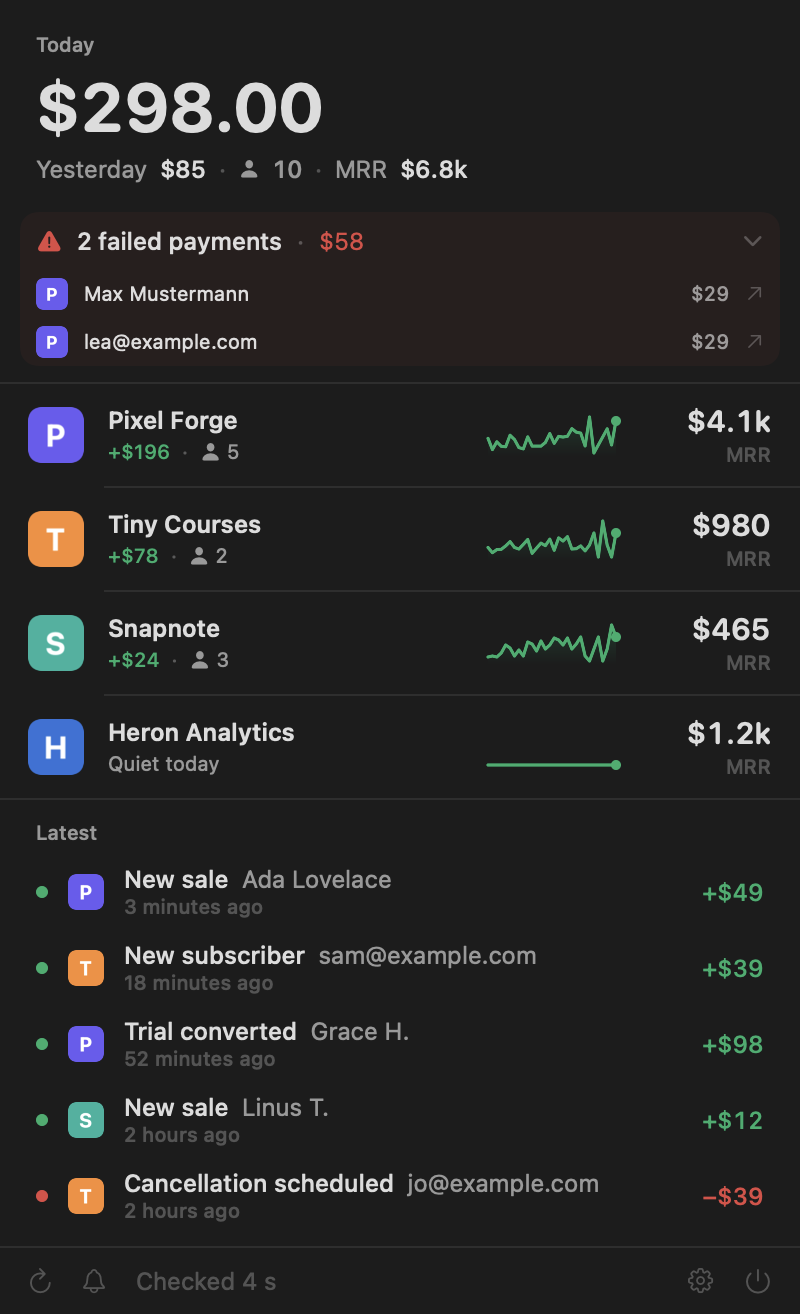
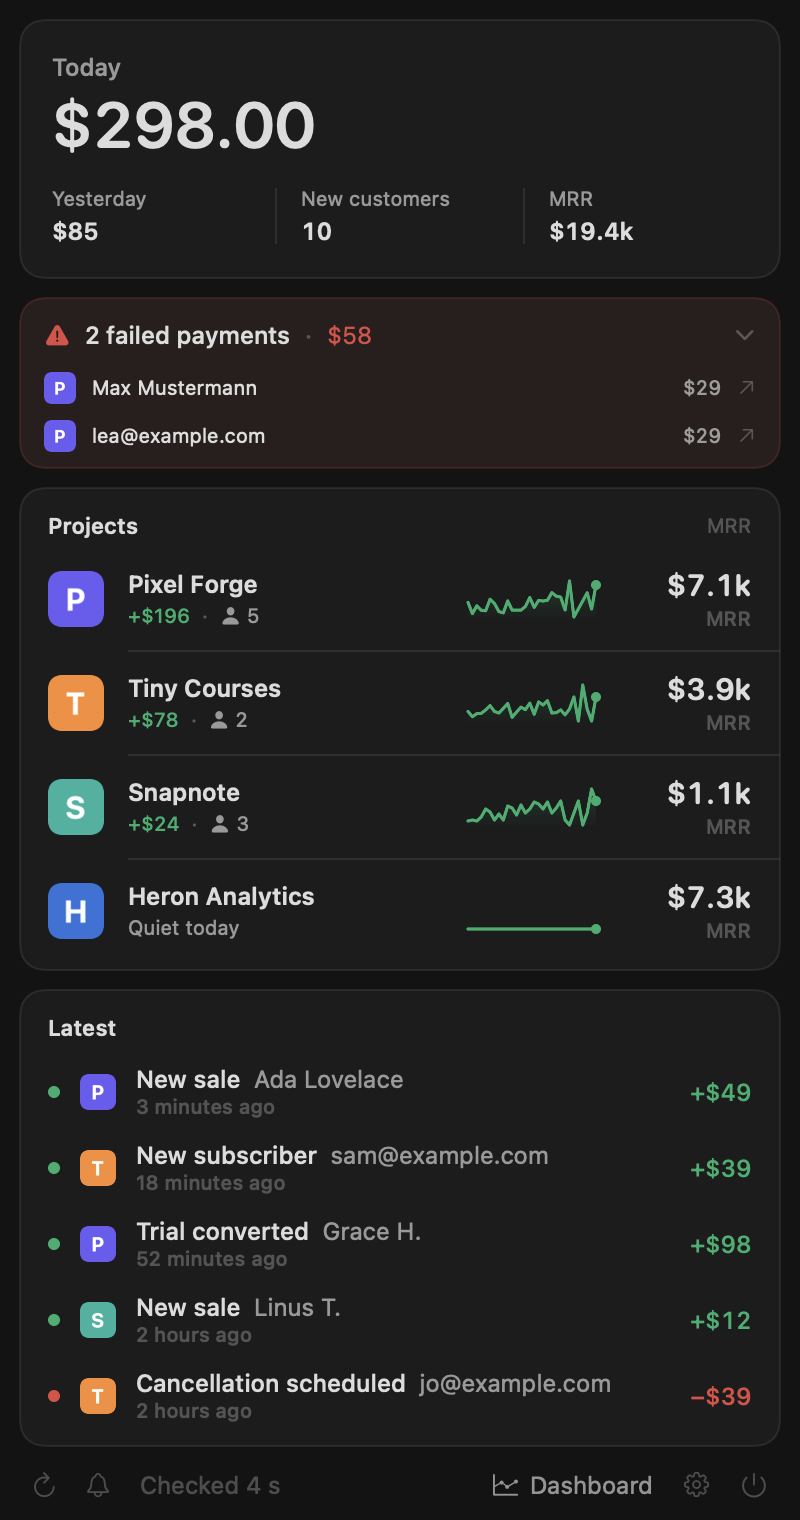
Menu panel in the dashboard's look: white cards on light grey, today's figure with yesterday, new customers and MRR as stats. Amounts in the display currency. The crossed bell opens the notification settings.

diff --git a/Sources/Views.swift b/Sources/Views.swift
@@ -16,30 +16,39 @@ struct MenuPanel: View {
     @Environment(\.isSnapshot) private var isSnapshot
 
     var body: some View {
-        VStack(alignment: .leading, spacing: 0) {
+        // The dashboard's look: white cards on a light grey background
+        VStack(alignment: .leading, spacing: 10) {
             if model.accounts.isEmpty {
-                empty.padding(18)
+                empty.padding(16).frame(maxWidth: .infinity, alignment: .leading).panelCard()
             } else {
-                header.padding(.horizontal, 18).padding(.top, 16).padding(.bottom, 14)
-                if !model.todos.isEmpty { TodoLine(model: model).padding(.horizontal, 10).padding(.bottom, 8) }
-                Hairline()
+                header.padding(16).panelCard()
+                if !model.todos.isEmpty { TodoLine(model: model) }
                 VStack(spacing: 0) {
+                    HStack {
+                        Text("Projects").font(.subheadline.weight(.semibold))
+                        Spacer()
+                        Text("MRR").font(.caption).foregroundStyle(.tertiary)
+                    }
+                    .padding(.horizontal, 14).padding(.top, 12).padding(.bottom, 4)
                     ForEach(Array(model.active.enumerated()), id: \.element.id) { i, a in
-                        if i > 0 { Hairline().padding(.leading, 52) }
+                        if i > 0 { Hairline().padding(.leading, 54) }
                         ProjectRow(model: model, account: a)
                             .contentShape(Rectangle())
                             .onTapGesture { openDashboard(a.id) }
+                            .help(String(localized: "Open this project in the dashboard"))
                     }
                 }
-                Hairline()
-                ActivityList(model: model).padding(.top, 10).padding(.bottom, 6)
+                .padding(.bottom, 4)
+                .panelCard()
+                ActivityList(model: model).padding(.top, 12).padding(.bottom, 6).panelCard()
             }
-            Hairline()
-            footer.padding(.horizontal, 14).padding(.vertical, 9)
+            footer.padding(.horizontal, 6).padding(.top, 2)
         }
+        .padding(10)
         .frame(width: 400)
+        .task { if !isSnapshot { await model.refreshNotificationsAllowed() } }
         // A plain, opaque background: the menu's translucent material greys everything out.
-        .background(Palette.surface)
+        .background(Palette.canvas)
     }
 
     private var empty: some View {
@@ -52,20 +61,29 @@ struct MenuPanel: View {
 
     /// One figure that matters, and one quiet line of context under it.
     private var header: some View {
-        VStack(alignment: .leading, spacing: 4) {
-            Text("Today").font(.caption.weight(.medium)).foregroundStyle(.secondary)
-            Amount(model: model, sums: model.takings(0), font: .system(size: 34, weight: .bold, design: .rounded))
-            HStack(spacing: 6) {
-                Text("Yesterday"); Amount(model: model, sums: model.takings(1), font: .callout.weight(.medium), compact: true, approxMark: false)
-                Text("·").foregroundStyle(.tertiary)
-                Image(systemName: "person.fill").font(.system(size: 10))
-                Text("\(model.newCustomers(0))").fontWeight(.medium)
-                    .help(String(localized: "People who became Stripe customers today, trials included."))
-                Text("·").foregroundStyle(.tertiary)
-                Text("MRR"); Amount(model: model, sums: model.mrrTotal, font: .callout.weight(.medium), compact: true, approxMark: false)
+        VStack(alignment: .leading, spacing: 12) {
+            VStack(alignment: .leading, spacing: 2) {
+                Text("Today").font(.callout.weight(.medium)).foregroundStyle(.secondary)
+                Amount(model: model, sums: model.takings(0), font: .system(size: 32, weight: .semibold, design: .rounded))
             }
-            .font(.callout).foregroundStyle(.secondary).monospacedDigit().lineLimit(1)
+            HStack(spacing: 0) {
+                stat("Yesterday") { Amount(model: model, sums: model.takings(1), font: .callout.weight(.semibold), compact: true, approxMark: false) }
+                Rectangle().fill(Palette.line).frame(width: 1, height: 28).padding(.horizontal, 12)
+                stat("New customers") { Text("\(model.newCustomers(0))").font(.callout.weight(.semibold)).monospacedDigit() }
+                    .help(String(localized: "People who became Stripe customers today, trials included."))
+                Rectangle().fill(Palette.line).frame(width: 1, height: 28).padding(.horizontal, 12)
+                stat("MRR") { Amount(model: model, sums: model.mrrTotal, font: .callout.weight(.semibold), compact: true, approxMark: false) }
+            }
         }
+        .frame(maxWidth: .infinity, alignment: .leading)
+    }
+
+    private func stat<V: View>(_ label: LocalizedStringKey, @ViewBuilder _ value: () -> V) -> some View {
+        VStack(alignment: .leading, spacing: 2) {
+            Text(label).font(.caption).foregroundStyle(.secondary).lineLimit(1)
+            value()
+        }
+        .frame(maxWidth: .infinity, alignment: .leading)
     }
 
     @ViewBuilder private var footer: some View {
@@ -85,7 +103,9 @@ struct MenuPanel: View {
             .foregroundStyle(.secondary)
             .help("Open the dashboard: MRR over time, churn, best customers")
             if !model.notificationsAllowed {
-                Image(systemName: "bell.slash").foregroundStyle(.orange).help("Notifications are off: System Settings › Notifications › PulseMRR")
+                Image(systemName: "bell.slash").foregroundStyle(.orange)
+                    .onTapGesture { model.openNotificationSettings() }
+                    .help("Notifications are off for PulseMRR. Click to turn them on in System Settings.")
             }
             Image(systemName: "gearshape").onTapGesture { openSettings() }.help("Settings")
             Image(systemName: "power").onTapGesture { NSApp.terminate(nil) }.help("Quit PulseMRR")
@@ -102,6 +122,14 @@ struct MenuPanel: View {
         model.dashboardScope = project
         openWindow(id: "dashboard")
         NSApp.activate(ignoringOtherApps: true)
+    }
+}
+
+extension View {
+    /// The dashboard's card: white, rounded, with a hairline border.
+    func panelCard() -> some View {
+        background(Palette.surface, in: RoundedRectangle(cornerRadius: 12))
+            .overlay(RoundedRectangle(cornerRadius: 12).stroke(Palette.line))
     }
 }
 
@@ -137,7 +165,7 @@ struct TodoLine: View {
                         AccountIcon(model: model, account: t.account, size: 16)
                         Text(t.who ?? t.title).lineLimit(1)
                         Spacer(minLength: 6)
-                        Text(Money.format(t.amount, t.currency, compact: true)).monospacedDigit().foregroundStyle(.secondary)
+                        Text(Money.format(model.convert(t.amount, t.currency), model.currency, compact: true)).monospacedDigit().foregroundStyle(.secondary)
                         Image(systemName: "arrow.up.right").font(.system(size: 9)).foregroundStyle(.tertiary)
                     }
                     .font(.caption)
@@ -148,7 +176,10 @@ struct TodoLine: View {
                 }
             }
         }
-        .background(Palette.loss.opacity(0.06), in: RoundedRectangle(cornerRadius: 9))
+        .padding(4)
+        .background(Palette.loss.opacity(0.06), in: RoundedRectangle(cornerRadius: 12))
+        .background(Palette.surface, in: RoundedRectangle(cornerRadius: 12))
+        .overlay(RoundedRectangle(cornerRadius: 12).stroke(Palette.loss.opacity(0.18)))
     }
 }
 
@@ -397,9 +428,9 @@ struct ActivityList: View {
     var body: some View {
         let items = Array(model.feed.prefix(5))
         VStack(alignment: .leading, spacing: 0) {
-            Text("Latest").font(.caption.weight(.medium)).foregroundStyle(.secondary).padding(.horizontal, 18).padding(.bottom, 4)
+            Text("Latest").font(.subheadline.weight(.semibold)).padding(.horizontal, 14).padding(.bottom, 6)
             if items.isEmpty {
-                Text("Nothing in the last 7 days.").font(.callout).foregroundStyle(.tertiary).padding(.horizontal, 18).padding(.vertical, 6)
+                Text("Nothing in the last 7 days.").font(.callout).foregroundStyle(.tertiary).padding(.horizontal, 14).padding(.vertical, 6)
             }
             ForEach(items) { act in ActivityRow(model: model, act: act) }
         }
@@ -432,11 +463,12 @@ struct ActivityRow: View {
             Spacer(minLength: 6)
             if let amount = act.amount, let cur = act.currency {
                 let sign = [.sale, .newSubscriber, .trialConverted].contains(act.kind) ? "+" : (tone == Palette.loss ? "−" : "")
-                Text(sign + Money.format(amount, cur, compact: true)).font(.callout.weight(.medium)).monospacedDigit()
+                // In the display currency, like everything else in the panel
+                Text(sign + Money.format(model.convert(amount, cur), model.currency, compact: true)).font(.callout.weight(.medium)).monospacedDigit()
                     .foregroundStyle(tone == Color.secondary ? Color.secondary : tone)
             }
         }
-        .padding(.horizontal, 18).padding(.vertical, 5)
+        .padding(.horizontal, 14).padding(.vertical, 5)
         .background(hover ? Color.primary.opacity(0.04) : .clear)
         .contentShape(Rectangle())
         .onHover { hover = $0 }

diff --git a/Sources/Model.swift b/Sources/Model.swift
@@ -583,6 +583,12 @@ final class Model: ObservableObject {
         return "authorization=\(auth) style=\(style) sound=\(st.soundSetting == .enabled) center=\(st.notificationCenterSetting == .enabled)"
     }
 
+    /// Whether macOS lets PulseMRR show notifications, read again each time the panel opens (you may have changed it).
+    func refreshNotificationsAllowed() async {
+        let st = await UNUserNotificationCenter.current().notificationSettings()
+        notificationsAllowed = st.authorizationStatus != .denied
+    }
+
     /// Opens PulseMRR's page in System Settings › Notifications.
     func openNotificationSettings() {
         let urls = ["x-apple.systempreferences:com.apple.Notifications-Settings.extension?id=app.pulsemrr",
